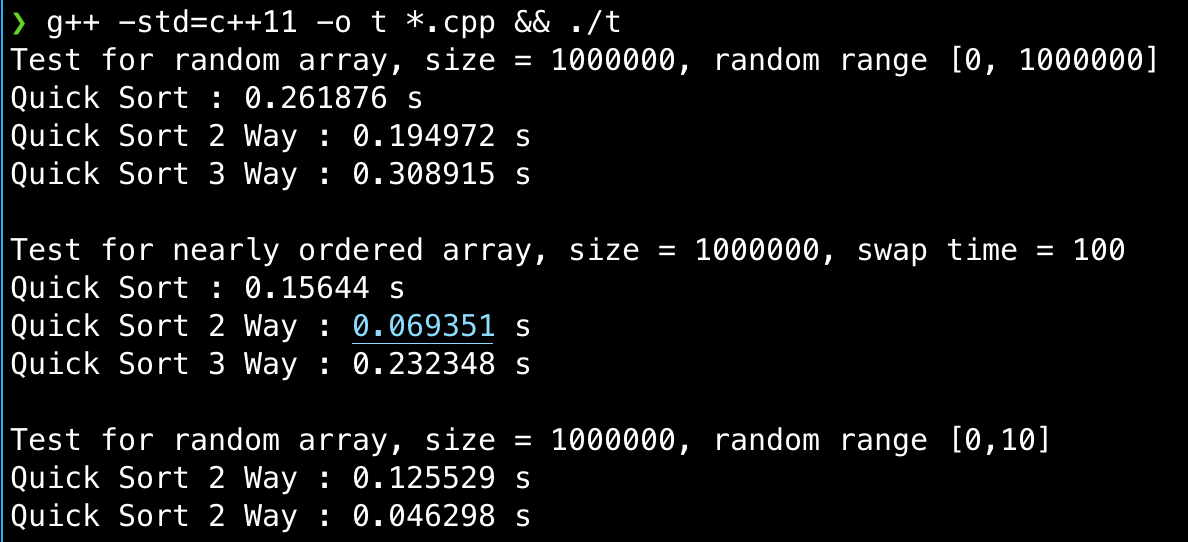
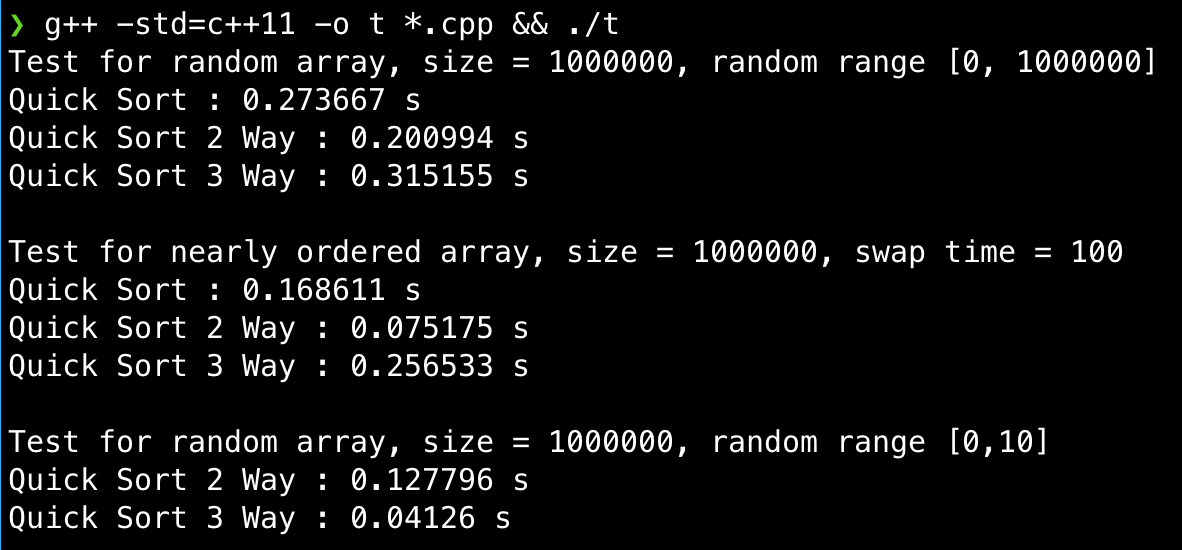
docs: Add docs assets

diff --git a/sorting-cc/main.cpp b/sorting-cc/main.cpp
@@ -59,7 +59,7 @@ int main() {
   // SortTestHelper::testSort("Quick Sort Raw", quickSortRaw, arr1, n);
   // SortTestHelper::testSort("Quick Sort", quickSort, arr1, n);
   SortTestHelper::testSort("Quick Sort 2 Way", quickSort2, arr2, n);
-  SortTestHelper::testSort("Quick Sort 2 Way", quickSort3, arr3, n);
+  SortTestHelper::testSort("Quick Sort 3 Way", quickSort3, arr3, n);
 
   delete[] arr1;
   delete[] arr2;
